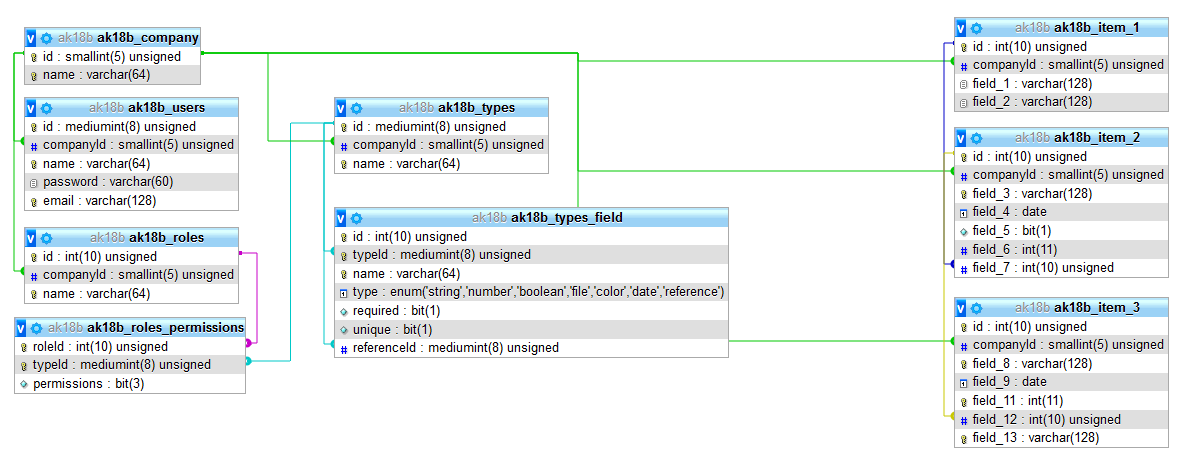
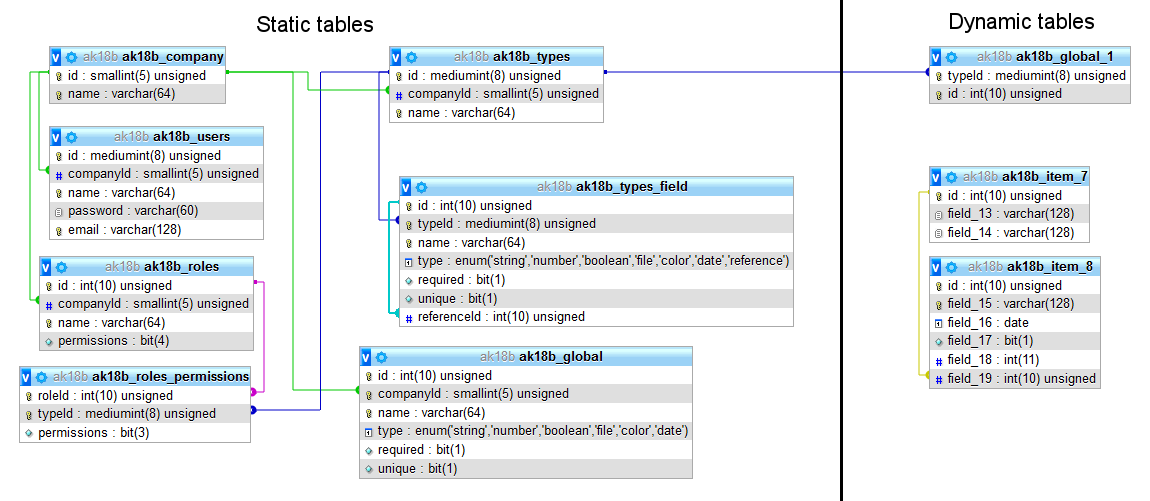
feat: WIP - global fields

diff --git a/Projekt/server/src/database/queries.ts b/Projekt/server/src/database/queries.ts
@@ -1,6 +1,7 @@
 import { Pool, ObjectResultsets, ArrayResultsets } from '../../types/mariadb';
 import { StaticQuery, DynamicQuery } from './query';
 import { Type, TypeField, TypeFieldType } from '../api/models/type';
+import { GlobalField } from '../api/models/global';
 
 export interface Queries {
     /** Creates the company table */
@@ -82,6 +83,8 @@ export interface Queries {
     GLOBAL_UPDATE: StaticQuery<ObjectResultsets>;
     /** Delete a global field by id */
     GLOBAL_DELETE: StaticQuery<ObjectResultsets>;
+
+    GLOBAL_TABLE_CREATE: DynamicQuery<ObjectResultsets, number>;
 
     /** Creates a new item table */
     ITEM_TABLE_CREATE: DynamicQuery<ObjectResultsets, Type>;
@@ -228,7 +231,7 @@ export function factory(pool: Pool, prefix: string): Queries {
         return sql.split('%_').join(prefix);
     }
 
-    function itemSelectQuery(type: Type) {
+    function itemSelectQuery(type: Type, globals: GlobalField[]) {
         const table = `\`%_item_${type.id}\``;
         let select = `SELECT ${table}.*`;
         let from = `FROM ${table}`;
@@ -237,29 +240,38 @@ export function factory(pool: Pool, prefix: string): Queries {
             if (field.type === TypeFieldType.reference) {
                 const referenceTable = `\`%_item_${field.reference.typeId}\``;
                 select += `, ${referenceTable}.\`field_${field.reference.id}\``;
-                from += ` JOIN ${referenceTable} ON ${table}.\`field_${field.id}\` = ${referenceTable}.\`id\``;
+                from += ` LEFT JOIN ${referenceTable} ON ${table}.\`field_${field.id}\` = ${referenceTable}.\`id\``;
             }
+        }
+
+        if (globals.length !== 0) {
+            const globalTable = `\`%_global_${type.companyId}\``;
+            for (const global of globals) {
+                select += `, ${globalTable}.\`global_${global.id}\``;
+            }
+            from += ` LEFT JOIN ${globalTable} ON ${table}.\`id\` = ${globalTable}.\`id\` AND ${globalTable}.\`typeId\` = ${type.id}`;
         }
 
         return `${select} ${from}`.split('%_').join(prefix);
     }
 
     function getItem(type: Type) {
-        return `${itemSelectQuery(type)} WHERE \`%_item_${type.id}\`.\`id\` = ?`.replace('%_', prefix);
+        return `${itemSelectQuery(type, [])} WHERE \`%_item_${type.id}\`.\`id\` = ?`.replace('%_', prefix);
     }
 
     function getItemList({ value: type, sorter, order }: Sortable<Type, TypeField>) {
-        let sql = itemSelectQuery(type);
+        let sql = itemSelectQuery(type, []);
 
         if (typeof sorter !== 'undefined') {
+            // TODO `table`.`field` + `table`.`global`
             sql += ` ORDER BY \`field_${sorter.id}\` ${order}`;
         }
 
         return sql;
     }
 
-    function getItemListRange({ value: type, sorter, order }: Sortable<Type, TypeField>) {
-        return `${getItemList({ value: type, sorter, order })} LIMIT ?, ?`;
+    function getItemListRange(sortable: Sortable<Type, TypeField>) {
+        return `${getItemList(sortable)} LIMIT ?, ?`;
     }
 
     function getItemTotal(id: number) {
@@ -280,6 +292,10 @@ export function factory(pool: Pool, prefix: string): Queries {
 
     function deleteItem(id: number) {
         return `DELETE FROM \`%_item_${id}\` WHERE \`id\` = ?`.replace('%_', prefix);
+    }
+
+    function generateGlobalTable(id: number) {
+        return `CREATE TABLE \`%_global_${id}\` (\`typeId\` MEDIUMINT UNSIGNED NOT NULL, \`id\` INT UNSIGNED NOT NULL, PRIMARY KEY (\`typeId\`, \`id\`), FOREIGN KEY (\`typeId\`) REFERENCES \`%_types\`(\`id\`) ON DELETE CASCADE ON UPDATE CASCADE);`.split('%_').join(prefix);
     }
 
     return {
@@ -320,11 +336,13 @@ export function factory(pool: Pool, prefix: string): Queries {
         TYPE_FIELD_UPDATE: queryFactory('UPDATE `%_types_field` SET `name` = ?, `type` = ?, `required` = ?, `unique` = ?, `referenceId` = ? WHERE `id` = ?'),
         TYPE_FIELD_DELETE: queryFactory('DELETE FROM `%_types_field` WHERE `id` = ?'),
 
-        GLOBAL_CREATE: queryFactory(''),
-        GLOBAL_GET: queryFactory(''),
-        GLOBAL_GET_ID: queryFactory(''),
-        GLOBAL_UPDATE: queryFactory(''),
-        GLOBAL_DELETE: queryFactory(''),
+        GLOBAL_CREATE: queryFactory('INSERT INTO `%_global` (`id`, `companyId`, `name`, `type`, `required`, `unique`) VALUES (NULL,?,?,?,?,?)'),
+        GLOBAL_GET: queryFactory('SELECT * FROM `%_global`'),
+        GLOBAL_GET_ID: queryFactory('SELECT * FROM `%_global` WHERE `id` = ?'),
+        GLOBAL_UPDATE: queryFactory('UPDATE `%_global` SET `name` = ?, `type` = ?, `required` = ?, `unique` = ? WHERE `id` = ?'),
+        GLOBAL_DELETE: queryFactory('DELETE FROM `%_global` WHERE `id` = ?'),
+
+        GLOBAL_TABLE_CREATE: new DynamicQuery(pool, generateGlobalTable),
 
         ITEM_TABLE_CREATE: new DynamicQuery(pool, generateTabel),
         ITEM_TABLE_DROP: new DynamicQuery(pool, dropTable),

diff --git a/Projekt/server/src/database/controller.ts b/Projekt/server/src/database/controller.ts
@@ -3,6 +3,7 @@ import { factory, Queries } from './queries';
 import { UserModel } from './models/user';
 import { TypeModel } from './models/type';
 import { CompanyModel } from './models/company';
+import { GlobalFieldModel } from './models/global';
 
 /**
  * Function that gets invoked inside a transaction
@@ -65,23 +66,28 @@ export async function initializeDatabaseController(pool: Pool, prefix: string): 
     UserModel.initialize(controller);
     TypeModel.initialize(controller);
     CompanyModel.initialize(controller);
+    GlobalFieldModel.initialize(controller);
 
-    // TODO REMOVE Add a mock company as long as there is no other way to add companies ('company')
-    let companyId;
-    const company = (await controller.COMPANY_GET_ID.execute(1)).pop();
-    if (!company) {
-        companyId = (await controller.COMPANY_CREATE.execute([ 'company' ])).insertId;
-    } else {
-        companyId = company.id;
-    }
+    try {
+        // TODO REMOVE Add a mock company as long as there is no other way to add companies ('company')
+        let companyId;
+        const company = (await controller.COMPANY_GET_ID.execute(1)).pop();
+        if (!company) {
+            companyId = (await CompanyModel.create({ name: 'company' })).id;
+        } else {
+            companyId = company.id;
+        }
 
-    // TODO REMOVE Add a mock user as long as there is no other way to add users ('username', 'password')
-    if (!(await controller.USER_GET_NAME.execute('username')).pop()) {
-        await UserModel.create({
-            companyId,
-            name: 'username',
-            password: '$2b$10$sFut8f1wXaMisJ750uiGbOD8UefoIZLLad5a66M7f/YMV5okNUgEC',
-        });
+        // TODO REMOVE Add a mock user as long as there is no other way to add users ('username', 'password')
+        if (!(await controller.USER_GET_NAME.execute('username')).pop()) {
+            await UserModel.create({
+                companyId,
+                name: 'username',
+                password: '$2b$10$sFut8f1wXaMisJ750uiGbOD8UefoIZLLad5a66M7f/YMV5okNUgEC',
+            });
+        }
+    } catch (error) {
+        console.error(error);
     }
 
     return controller;

diff --git a/Projekt/server/src/database/models/global.ts b/Projekt/server/src/database/models/global.ts
@@ -1,4 +1,7 @@
 import { Cache } from '../../util/cache';
+import { Company } from '../../api/models/company';
+import { GlobalField } from '../../api/models/global';
+import { TypeFieldType } from '../../api/models/type';
 import { DatabaseController } from '../controller';
 import { ApiError, ErrorNumber } from '../../types';
 
@@ -15,4 +18,22 @@ export class GlobalFieldModel {
 
     /** current instance of DatabaseController */
     private static database: DatabaseController;
+
+    /**
+     * Initialize the user model class
+     * @param database current instance of DatabaseController
+     */
+    static initialize(database: DatabaseController) {
+        if (GlobalFieldModel.database) {
+            throw new Error('Already initialized TypeModel');
+        }
+        GlobalFieldModel.database = database;
+    }
+
+    static async create(company: Company, field: GlobalField) {
+        await GlobalFieldModel.database.beginTransaction(async function(connection) {
+            const params = [ company.id, field.name, field.type, field.required, field.unique ];
+            const id = (await GlobalFieldModel.database.GLOBAL_CREATE.executeConnection(connection, params)).insertId;
+        });
+    }
 }

diff --git a/Projekt/server/src/api/controllers/items.ts b/Projekt/server/src/api/controllers/items.ts
@@ -367,7 +367,8 @@ export async function itemCreate(req: Request, res: Response, next: NextFunction
         const database: DatabaseController = req.app.get('database');
         const type: Type = await TypeModel.get(typeId);
 
-        const values = verifyValues(type, fields.slice());
+        const values = verifyValues(type, fields);
+        // TODO set referenced field value (also in itemUpdate)
         fields = values.map((value: any, index: number) => {
             return {
                 id: type.fields[index].id,
@@ -424,7 +425,7 @@ export async function itemUpdate(req: Request, res: Response, next: NextFunction
         const database: DatabaseController = req.app.get('database');
         const type: Type = await TypeModel.get(typeId);
 
-        const values = verifyValues(type, fields.slice());
+        const values = verifyValues(type, fields);
         fields = values.map((value: any, index: number) => {
             return {
                 id: type.fields[index].id,

diff --git a/Projekt/server/src/database/models/company.ts b/Projekt/server/src/database/models/company.ts
@@ -31,10 +31,14 @@ export class CompanyModel {
     }
 
     static async create(company: Company): Promise<Company> {
-        const id = (await CompanyModel.database.COMPANY_CREATE.execute([ company.name ])).insertId;
-        company.id = id;
+        await CompanyModel.database.beginTransaction(async function(connection) {
+            const id = (await CompanyModel.database.COMPANY_CREATE.execute([ company.name ])).insertId;
+            company.id = id;
 
-        await CompanyModel.cache.set(id.toString(), company);
+            await CompanyModel.database.GLOBAL_TABLE_CREATE.executeConnection(connection, id);
+        });
+
+        await CompanyModel.cache.set(company.id.toString(), company);
 
         return company;
     }

diff --git a/Projekt/server/src/api/models/global.ts b/Projekt/server/src/api/models/global.ts
@@ -4,7 +4,7 @@ import { ObjectValidator } from '../../util/object-validator';
  * Represents a global field
  * @author Maurice
  */
-export interface TypeField {
+export interface GlobalField {
     /** The field's unique id */
     id: number;
     /** The id of the company this field belongs to */
@@ -19,7 +19,7 @@ export interface TypeField {
     unique: boolean;
 }
 
-export const GLOBAL = new ObjectValidator<TypeField[]>({
+export const GLOBAL = new ObjectValidator<GlobalField[]>({
     type: Array,
     required: true,
     elements: {
